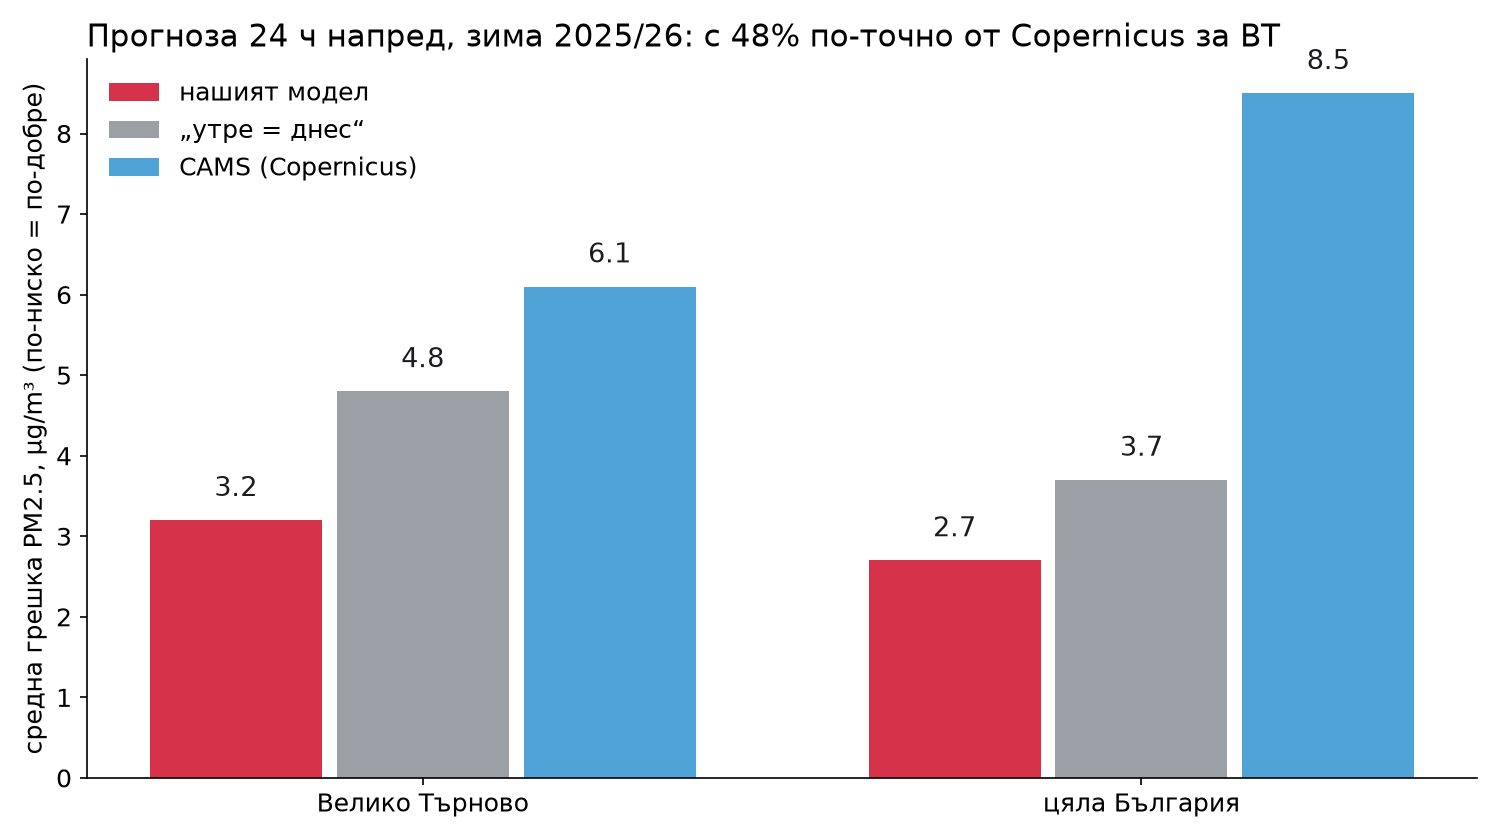
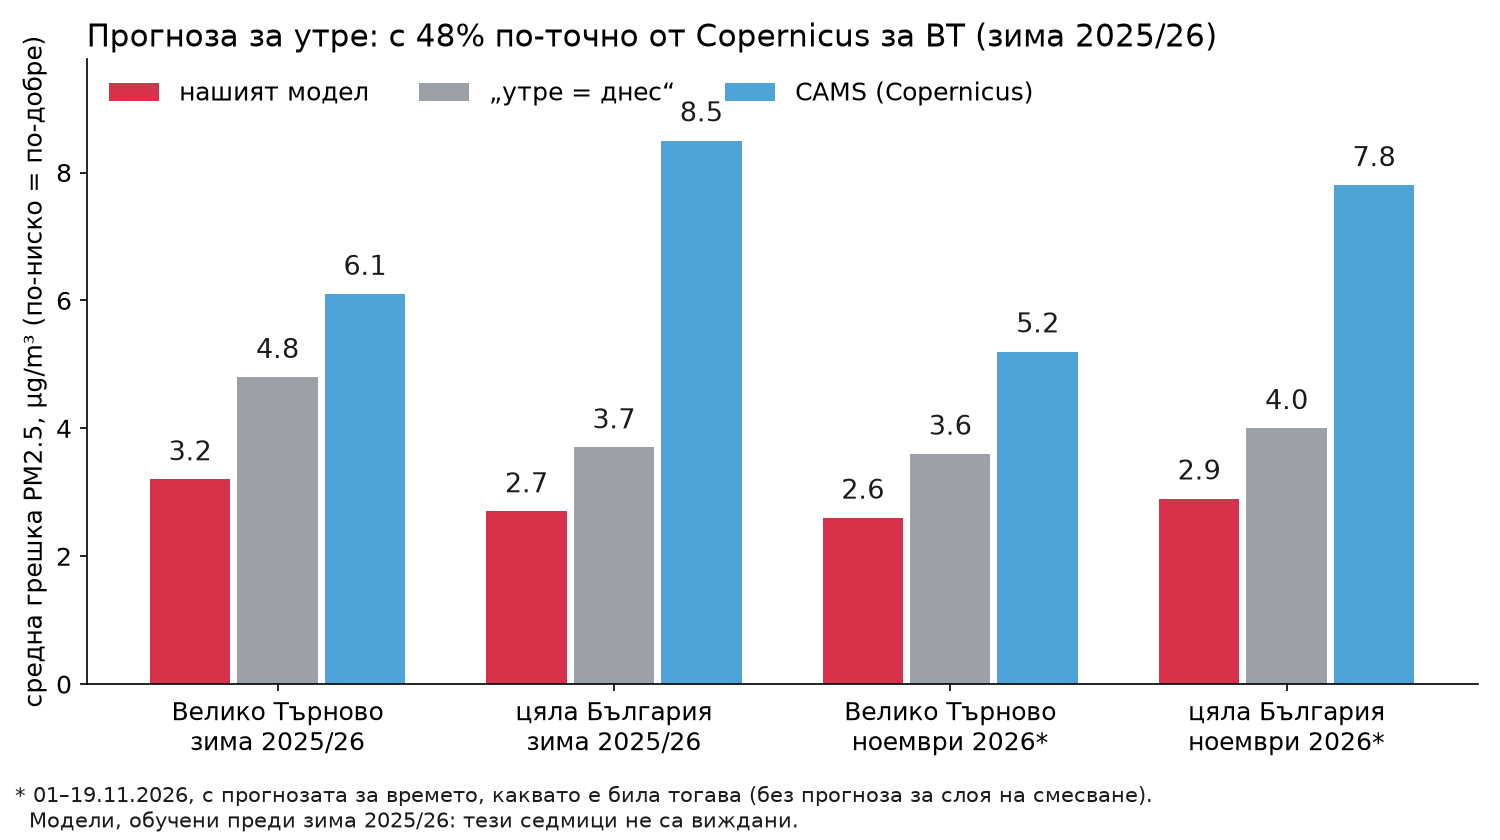
feat(aq): slide 6 adds this season's forecast-weather replay

diff --git a/ml/aq_slides.py b/ml/aq_slides.py
@@ -41,7 +41,14 @@ def main() -> None:
 
     # Slide 6: one bar chart, 24 h ahead, VT and all BG.
     fig, ax = plt.subplots(figsize=(10, 5.6), dpi=150)
-    groups = [("Велико Търново", meta["mae_vt"]), ("цяла България", meta["mae"])]
+    groups = [("Велико Търново\nзима 2025/26", meta["mae_vt"]), ("цяла България\nзима 2025/26", meta["mae"])]
+    sb_path = ROOT / "data" / "processed" / "scoreboard_replay.json"
+    season = None
+    if sb_path.exists():
+        c = json.loads(sb_path.read_text(encoding="utf-8"))
+        season = c["runs"][c["chosen"]]
+        m = season["mae_pm25_next_day"]
+        groups += [("Велико Търново\nноември 2026*", m["vt"]), ("цяла България\nноември 2026*", m["bg"])]
     w = 0.26
     for k, (label, m) in enumerate(groups):
         for j, (key, name, color) in enumerate((("model", "нашият модел", MODEL), ("persistence", "„утре = днес“", PERS),
@@ -52,11 +59,17 @@ def main() -> None:
     ax.set_xticks(range(len(groups)), [g[0] for g in groups], fontsize=14)
     ax.set_ylabel("средна грешка PM2.5, µg/m³ (по-ниско = по-добре)", fontsize=12)
     gain_vt = 100 * (1 - meta["mae_vt"]["model"] / meta["mae_vt"]["cams"])
-    ax.set_title(f"Прогноза 24 ч напред, зима 2025/26: с {gain_vt:.0f}% по-точно от Copernicus за ВТ",
+    ax.set_title(f"Прогноза за утре: с {gain_vt:.0f}% по-точно от Copernicus за ВТ (зима 2025/26)",
                  fontsize=15, loc="left")
-    ax.legend(frameon=False, fontsize=12)
+    if season:
+        blh = ("без прогноза за слоя на смесване" if season["blh"] == "none"
+               else "слоят на смесване е измерен (ERA5)")
+        fig.text(0.01, 0.015, f"* {season['from'][8:]}–{season['to'][8:]}.11.2026, с прогнозата за времето, каквато е била "
+                 f"тогава ({blh}).\n  Модели, обучени преди зима 2025/26: тези седмици не са виждани.", fontsize=10, color=INK)
+    ax.set_ylim(0, 1.15 * max(m[k] for _, m in groups for k in ("model", "persistence", "cams")))
+    ax.legend(frameon=False, fontsize=12, ncol=3, loc="upper left")
     style(ax)
-    fig.tight_layout()
+    fig.tight_layout(rect=(0, 0.07 if season else 0, 1, 1))
     fig.savefig(OUT / "mae_24h.png")
 
     # Error by horizon.
@@ -94,6 +107,14 @@ def main() -> None:
         f"≥ 4 (everyone): {rep['vt_alert_days_holdout']['general']['observed']}.",
         "- Top feature groups: " + ", ".join(f"{g['label_en']} {100 * g['share']:.0f}%" for g in meta["importance"][:5]),
     ]
+    if season:
+        sv, sg = season["mae_pm25_next_day"]["vt"], season["mae_pm25_next_day"]["bg"]
+        lines.append(
+            f"- This season ({season['from']} → {season['to']}, {season['days']} days, forecast weather, BLH {season['blh']}"
+            f"{': boundary layer observed' if season['blh'] == 'era5' else ''}), PM2.5 MAE next-day hours: "
+            f"VT model {sv['model']} vs CAMS {sv['cams']} → {100 * (1 - sv['model'] / sv['cams']):.0f}% better "
+            f"(persistence {sv['persistence']}); BG model {sg['model']} vs CAMS {sg['cams']} → "
+            f"{100 * (1 - sg['model'] / sg['cams']):.0f}% better (persistence {sg['persistence']}).")
     if score:
         a, c = score["model_alert"], score["cams"]
         lines.append(

diff --git a/docs/slides/numbers.md b/docs/slides/numbers.md
@@ -8,4 +8,5 @@
 - 10–90% band covers 78% of outcomes.
 - VT, winter 2025/26: 6 days with PM10 > 50; days at EAQI ≥ 3 (sensitive alert): 15 of 179; ≥ 4 (everyone): 0.
 - Top feature groups: pollution in the last hours 47%, CAMS forecast 14%, humidity 13%, wind 6%, hour, day, season 5%
+- This season (2026-11-01 → 2026-11-19, 19 days, forecast weather, BLH none), PM2.5 MAE next-day hours: VT model 2.6 vs CAMS 5.2 → 50% better (persistence 3.6); BG model 2.9 vs CAMS 7.8 → 63% better (persistence 4.0).
 - Day-before warnings for sensitive groups in VT (EAQI ≥ 3), 178 days, 23 bad: model caught 18, 11 false alarms; CAMS caught 20, 23 false alarms. On the 10 worst days: model warned 9, CAMS 10.
